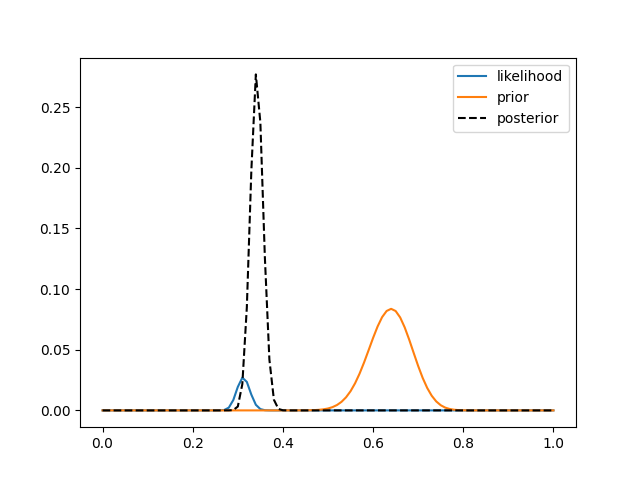
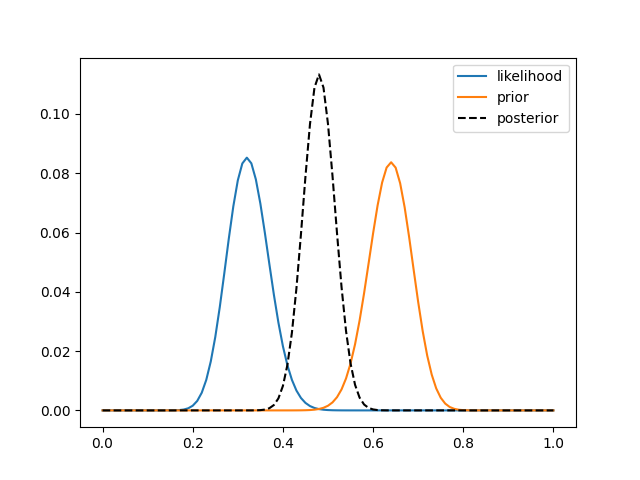
Add files via upload

diff --git a/Bayesian/simple/Bayesian0.py b/Bayesian/simple/Bayesian0.py
@@ -31,35 +31,66 @@ https://statsthinking21.github.io/statsthinking21-python/10-BayesianStatistics.h
 #pip install --upgrade nhanes --trusted-host pypi.org --trusted-host files.pythonhosted.org
 #pip install --upgrade rpy2 --trusted-host pypi.org --trusted-host files.pythonhosted.org
 #
-# If it's successful, then you can repeat the same command for other libraries (i.e., numpy, pandas, and matplotlib.pyplot).
+# If it's successful, then you can repeat the same command for other libraries (i.e., numpy, pandas, scipy, and matplotlib).
 #
 #
-# In some environment, the following might work
+# In some Python 3 environment, the following might work
 ##### pip3 install --upgrade nhanes
 ##### pip3 install --upgrade rpy2
 
 
 
 
-########## Applying Bayes’ theorem: A simple example
-
-#Sensitivity (True Positive Rate) refers to the proportion of those who have the condition (when judged by the ‘Gold Standard’) that received a positive result on this test.
-#Specificity (True Negative Rate) refers to the proportion of those who do not have the condition (when judged by the ‘Gold Standard’) that received a negative result on this test.
-
-sensitivity = 0.90
-specificity = 0.99
+########## [1] Applying Bayes’ theorem: A simple example
 
 '''
-Let’s say that the local rate of symptomatic individuals who actually are infected with COVID-19 is 7.4% (as reported on July 10, 2020 for San Francisco); thus, our prior probability that someone with symptoms actually has COVID-19 is .074. 
+Sensitivity (True Positive Rate) refers to the proportion of those who have the condition (when judged by the ‘Gold Standard’) that received a positive result on this test.
+Specificity (True Negative Rate) refers to the proportion of those who do not have the condition (when judged by the ‘Gold Standard’) that received a negative result on this test.
+
+On the contrary,
+False Positive: It is evaluated as Positive (when juddged by the ‘Gold Standard’), but it actually iS FALSE.
+False Negative: It is evaluated as Negative (when juddged by the ‘Gold Standard’), but it actually iS POSITIVE.
+'''
+
+
+##### Arbitrary Parameters (You can choose values which suit your circumstances.)
+#
+#
+#True Positive Rate (Likelihood: This is an estimate, but NOT necessary the truth, the whole truth, and nothing but the truth as actual True Positive Rate is unknown.)
+sensitivity = 0.90
+likelihood = sensitivity  # p(post-alert investigation | alert triggered)
+#
+#
+#True Negative Rate
+specificity = 0.99
+#
+#
+'''
+Let’s say observed rate of trade surverillance alerts which actually are valid and significant alerts is 7.4%.
+That is, 7.4% of all the triggered alerts are true positives and worth investigating.
+Please note that fired, but not significant alerts are regarded as negative in this case.
+Thus, our prior probability that alerts actually has significanse is 0.074. 
 '''
 prior = 0.074
+#
+#####
 
-likelihood = sensitivity  # p(test|disease present) 
 
-#marginal_likelihood = (True Positive) * (Positive) + (1- True Negative) * (Negative) = (True Positive) * (Positive) + ((Negative) - (True Negative * Negative)) = Positive Rate
+#marginal_likelihood
+#= sensitivity * prior + (1 - specificity) * (1 - prior)
+#= (True Positive) * (Positive) + (1- True Negative) * (Negative)
+#= (True Positive) * (Positive) + ((False Negative) * (Negative))
+#= All Positive Cases including False Negatives
+#
 marginal_likelihood = sensitivity * prior + (1 - specificity) * (1 - prior)
 
+
+#(True Positive) * prior = posterior * marginal_likelihood
+#likelihood      * prior = posterior * marginal_likelihood
 posterior = (likelihood * prior) / marginal_likelihood
+#
+#prior = True Positives + False Positives
+#
 #posterior
 print(posterior)
 #0.8779330345373055
@@ -74,7 +105,7 @@ import matplotlib.pyplot as plt
 
 
 def compute_posterior(prior, sensitivity, specificity):
-    likelihood = sensitivity  # p(test|disease present) 
+    likelihood = sensitivity  # p(post-alert investigation | alert triggered) 
     marginal_likelihood = sensitivity * prior + (1 - specificity) * (1 - prior)
     posterior = (likelihood * prior) / marginal_likelihood
     return(posterior)
@@ -90,28 +121,38 @@ _ = plt.ylabel('posterior')
 plt.savefig('Fig1.png')
 plt.show()
 '''
-This figure highlights a very important general point about diagnostic testing: Even when the test has high specificity, if a condition is rare then most positive test results will be false positives.
+This figure highlights a very important general point.
+Even when the trade surveillance and alerting have high specificity (True Negative Rate),
+if a condition (=alert generation) is rare then most positive results will be false positives.
 '''
 
 
 
 
-########## Estimating posterior distributions
+########## [2] Estimating posterior distributions
 '''
-In this example we will look at how to estimate entire posterior distributions.
-We will implement the drug testing example from the book. In that example, we administered a drug to 100 people, and found that 64 of them responded positively to the drug. What we want to estimate is the probability distribution for the proportion of responders, given the data. For simplicity we started with a uniform prior; that is, all proprtions of responding are equally likely to begin with. In addition, we will use a discrete probability distribution; that is, we will estimate the posterior probabiilty for each particular proportion of responders, in steps of 0.01. This greatly simplifies the math and still retains the main idea.
+In this example we will look at how to estimate entire posterior distributions, rather than single points of estimates.
+We apply alert rules to (=test) 100 orders/trades, and found that 64 of them trigerred alerts (positives).
+What we want to estimate is the probability distribution for the proportion of alerts, given the data.
+For simplicity, we started with a uniform prior; that is, all proprtions of alerts are equally likely to begin with.
+In addition, we will use a discrete probability distribution; that is, we will estimate the posterior probabiilty for each particular proportion of alerts, in steps of 0.01.
+This greatly simplifies the math and still retains the main idea.
 '''
 
 
 #+
-num_responders = 64
+##### Arbitrary Parameters (You can choose values which suit your circumstances.)
+#
+num_alerts = 64
 num_tested = 100
+#
+#####
 
 bayes_df = pd.DataFrame({'proportion': np.arange(0.0, 1.01, 0.01)})
 
 # compute the binomial likelihood of the observed data for each
 # possible value of proportion
-bayes_df['likelihood'] = scipy.stats.binom.pmf(num_responders,
+bayes_df['likelihood'] = scipy.stats.binom.pmf(num_alerts,
                                                num_tested,
                                                bayes_df['proportion'])
 # The prior is equal for all possible values
@@ -146,14 +187,18 @@ The plot shows that the posterior and likelihood are virtually identical, which 
 
 #+
 
-num_responders = 32
+##### Arbitrary Parameters (You can choose values which suit your circumstances.)
+#
+num_alerts = 32
 num_tested = 100
 #
-#num_responders = 312
+#num_alerts = 312
 #num_tested = 1000
 #
-#num_responders = 3120
+#num_alerts = 3120
 #num_tested = 10000
+#
+#####
 
 
 # copy the posterior from the previous analysis and rename it as the prior
@@ -163,7 +208,7 @@ study2_df = bayes_df[['proportion', 'posterior']].rename(columns={'posterior': '
 # compute the binomial likelihood of the observed data for each
 # possible value of proportion
 
-study2_df['likelihood'] = scipy.stats.binom.pmf(num_responders,
+study2_df['likelihood'] = scipy.stats.binom.pmf(num_alerts,
                                                num_tested,
                                                study2_df['proportion'])
 
